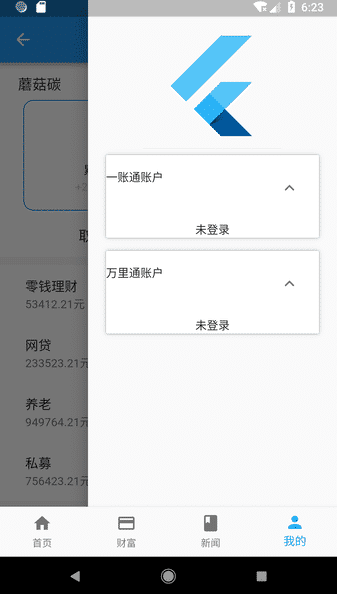
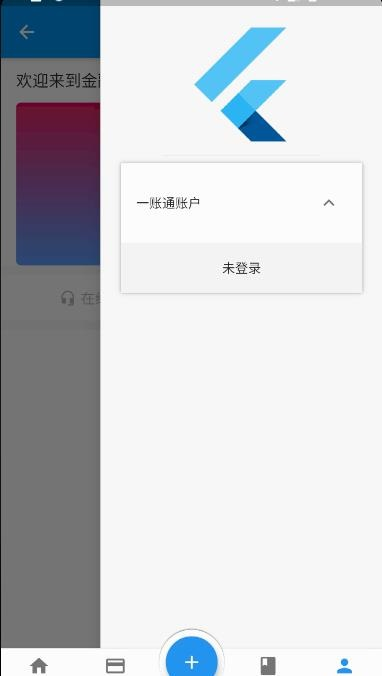
新样式

diff --git a/lib/page/customer/customer_page.dart b/lib/page/customer/customer_page.dart
@@ -133,6 +133,10 @@ class _CustomerPageState extends State<CustomerPage> {
                       );
                     },
                     body: Container(
+                      alignment: Alignment.center,
+                      width: double.infinity,
+                      padding: ZEdge.all_15,
+                      color: ZColor.thinGrey,
                       child: Text(val['text']),
                     )
                   );
